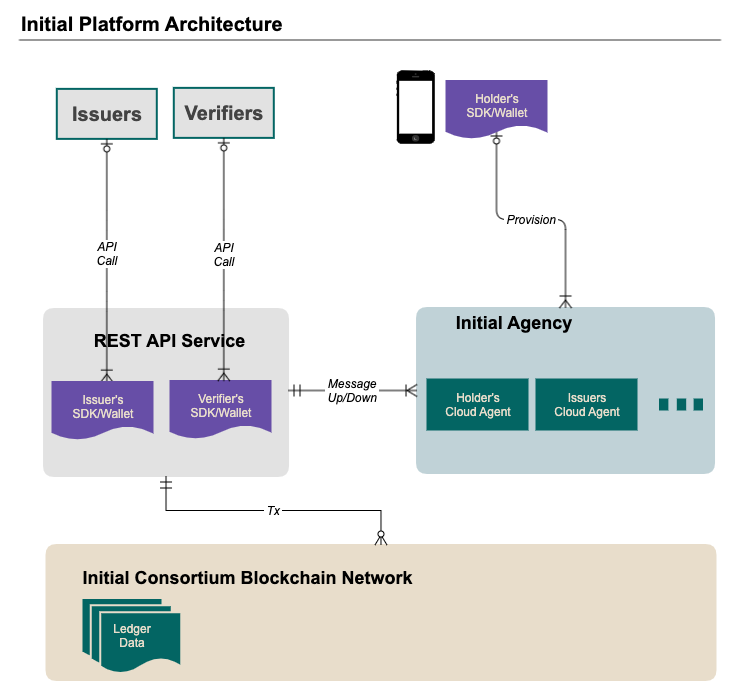
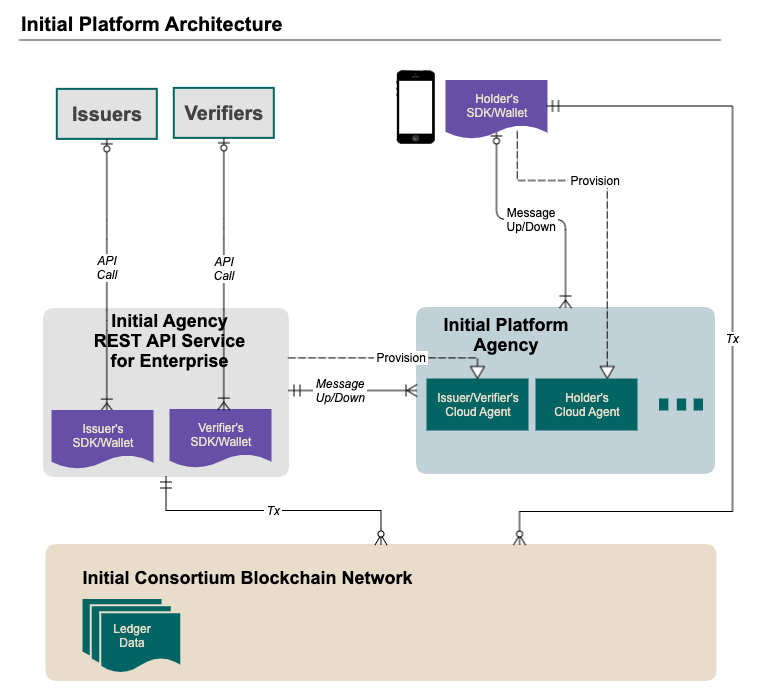
readthedocs theme modified

diff --git a/docs/terms.md b/docs/terms.md
@@ -1,69 +1,81 @@
 # Definition and Terms
 
-## Agency
- - Peer(Issuer,Verifier,Holder)들의 연결을 지원하는 SKT의 서비스. Initial 기반의 DID 동작은 모두 Agency를 통해서 진행.
- 
-## Agent
- - Agency 내부에 Peer를 대신해서 wallet 및 message등을 관리하는 프로그램. Client당 한개의 Agent가 생성된다.
-
-## Connection Agent
- - 참여자들과 연결마다 생성되는 특별한 용도의 프로그램.
-
-## Initial Client
- - 이니셜 eco-system의 서비스를 제공 받는 참여자들을 말함. Holder, Issuer, Verifier등 해당. 여기서 서비스 서비스를 제공하는 Server는 Agency를 말함.
- 
-## Web Console
- - Web 기반 DID 동작을 지원하는 서비스
-
-## Issuer
+## 1. 기본 용
+### Issuer
  - VC/증명서등을 발행하는 주체
  
-## Verifier
+### Verifier
  - VC를 검증하는 주체
 
-## Holder
+### Holder
  - VC를 보관하고 Self Sovereign을 담당하는 주체.
  
-## Peer
+### Peer
  - Issuer,Verifier,Holder등은 DID 세계에서 각각 peer
  
-## Credential
+### Credential
  - 검증이 가능한 증명서
  - e.g)신분증, 출입증, 학생증, 계좌증명서등
 
-## Schema
+### Schema
  - Credential의 기본 Template. 권한이 있는 Issuer만 생성 가능하고 Ledger에 기록됨.
  
-## Credential Definition
+### Credential Definition
  - 이미 생성된 Schema로 부터 Credential을 발행하기 위한 최종 설정.
  - Revocation 사용 여부, 총 발행량, 버전 정보등이 Ledger에 기록
  - 권한이 있는 Issuer만 생성 가능
 
-## Wallet
+### Wallet
  - 사용자의 중요 정보를 담기 위한 공간으로 Client가 직접 보관한다.
  - Key, Credential, 연결정보등을 저장한다.
- 
-# Keys
+
+## 2. Keys
 DID는 수많은 보안 강화를 위해 많은 Key들을 사용한다
 
-## MasterKey
+### MasterKey
  - Wallet Key을 암호화 하기 위한 Symmetric Encryption Key. MasterKey는 사용자가 관리해야하는 의무가 있다.
  - 사용자는 MasterKey를 직접 관리해야 하며, 보안 사고시 Rotate key를 통해 key 변경를 해야 한다. 
  
-## Wallet Key
+### Wallet Key
  - Wallet의 실제 data를 암호화 할때 사용하는 Symmetric Encryption Key(chacha20-poly1305).
  - MasterKey에 의해서 암호화 되어, Wallet의 Metadata 영역에 저장/관리 된다
  - Wallet key는 총 7개의 Key로 구성되어 있다
  
-## DID Key
+### DID Key
  - DID를 사용하기 위한 Asymmetric Key로 Wallet에 저장되어 있음(ed25519)
  - Digital Sign, Public Key Encryption에 사용함.
  
-### Pairwise DID Key
+#### Pairwise DID Key
  - 상대방과 연결에서만 사용하는 DID. Private DID라고 불리기도 함
  
-### Enterprise DID (Issuer DID)
+#### Enterprise DID (Issuer DID)
  - Blockchain Ledger에 접근하기 위한 용도의 DID
  - Ledger 접근하기 위해 Trustee, Steward, Endorser 권한이 있으며, Transaction을 발생할 수 있다
- - 권한이 없는 사용자는 Read만 가능하다.   
+ - 권한이 없는 사용자는 Read만 가능하다.  
+ 
+## 3. Agency 용
+### Agency
+ - Agent to Agent 메시징 기본 개념은 중개자(Mediator) 및 중계(Relay)의 요소가 존재하고, Peer(Issuer,Verifier,Holder) Agent들 간의 연결 및 Message 중계를 위해 Agency가 존재. 
+ - Initial Platform 기반의 DID 메시지 communication은 모두 SKT Agency를 통해서 동작.
+ 
+### Mediator
+  - Agency의 역할은 Relayer(단순 메시지 전달), Mediator(Peer의 서버 역할), Full Function(Cloud Wallet등 모든 기능 포함)등으로 구분가능 하다.
+  - Mediator는 Message을 encryption 하여 임시 보관하고, Target으로 전달하는 역할하는 능동적인 일을 하지만, 메시지 내용 확인은 불가능 하다.
+  - https://github.com/hyperledger/aries-rfcs/blob/master/concepts/0046-mediators-and-relays/README.md
+  
+### Cloud Agent
+ - Agency 내부에 Peer를 대신해서 wallet 및 message등을 관리하는 프로그램. Client당 한개의 Agent가 생성된다.
+
+### Connection Agent
+ - 참여자들과 연결마다 생성되는 특별한 용도의 프로그램.
+
+### Initial Client
+ - 이니셜 eco-system의 서비스를 제공 받는 참여자들을 말함. Holder, Issuer, Verifier등 해당. 여기서 서비스 서비스를 제공하는 Server는 Agency를 말함.
+ 
+## 4. Web Console
+ - Web 기반 DID 동작을 지원하는 서비스
+
+
+ 
+ 
 

diff --git a/docs/services.md b/docs/services.md
@@ -1,16 +1,25 @@
 # Initial Platform Product and Services
 
-## Initial Cloud Web Console
- - Web GUI 기반으로 손쉽게 Agent, Wallet 생성하고, VC(Verifiable Credential)을 발행하거나 검증할 수 있는 기능 제공.  
- 1. 디지털 자격 증명을 사용자에게 직접 발행 가능
- 2. 발행된 디지털 자격 증명서를 쉽고 간편하게 검증 가능
- 3. 기존 Back-end 시스템과 REST APIs를 통한 손쉬운 구축 지원
+## 1. Initial Cloud Web Console
+Web GUI 기반으로 손쉽게 Agent, Wallet 생성하고, VC(Verifiable Credential)을 발행하거나 검증할 수 있는 기능 제공.  
 
-## Initial API Services
- - API 기반 Wallet 생성 및 VC 발행/검증
+  - 디지털 자격 증명을 사용자에게 직접 발행(Issuing) 가능
+  - 발행된 디지털 자격 증명서를 쉽고 간편하게 검증(Verifying) 가능
+
+## 2. Initial API Services
+  API 기반 Wallet 생성 및 VC 발행/검증
+  - 기존 Back-end system과 REST APIs를 통한 손쉬운 구축 지원
+  - REST APIs와 연결을 위한 SDK Controller 지원
+
+
+## 3. Initial iOS SDK
+ Mobile iOS Native 전용 SDK API
+ - TEE(Secure Enclave) 활용을 통한 Wallet 보안성 강화
  
-## Initial iOS SDK
- - Mobile iOS Native 전용 SDK API
- 
-## Initial Android/Java SDK
- - Mobile Android Native 및 JAVA 서버 기반 전용 SDK API
+## 4. Initial Android SDK
+ Mobile Android Native SDK API
+  - TEE(Android KeyStore) 활용을 통한 Wallet 보안성 강화
+
+## 5. Initial Java Server SDK
+ JAVA 서버 기반 전용 SDK API
+  - TEE(HSM pkcs#11) 활용을 통한 Wallet 보안성 강화

diff --git a/docs/index.md b/docs/index.md
@@ -17,16 +17,25 @@ DID를 통해 신분증/자격증명을 효과적으로 전달할 수 있다면 
 
 ![platform arch](img/Initial_platform_arch.png)
 
+<br>
 
 ## 2. Open Source Contribute
 
-#### Hyperledger Indy
+- Hyperledger Indy(SDK)
 <https://github.com/hyperledger/indy-sdk>
+- SKT Ston Project(Initial Platform)
+<https://github.com/sktston>
+- Absa Node Agency(Mediator)
+<https://github.com/AbsaOSS/vcxagencynode>
 
+<br>
 
 ## 3. Global Standardization
 
-#### TIoP
-<https://trustoverip.org/>
+- ToIP(Trust over IP)
+<https://trustoverip.org/> <br>
+    - The Trust over IP Foundation is defining a complete architecture for Internet-scale digital trust that combines both cryptographic trust at the machine layer and human trust at the business, legal, and social layers.
 
-#### GSMA
+
+- GSMA Identity group
+<https://www.gsma.com/identity/>
